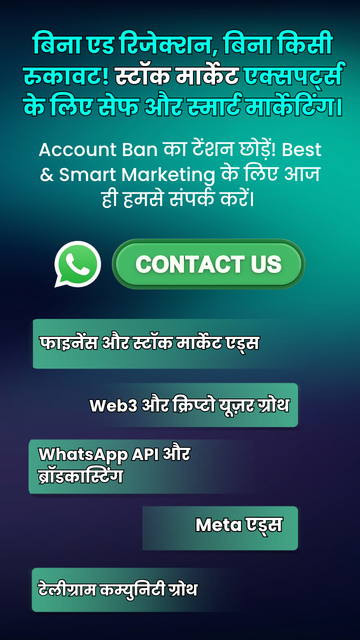
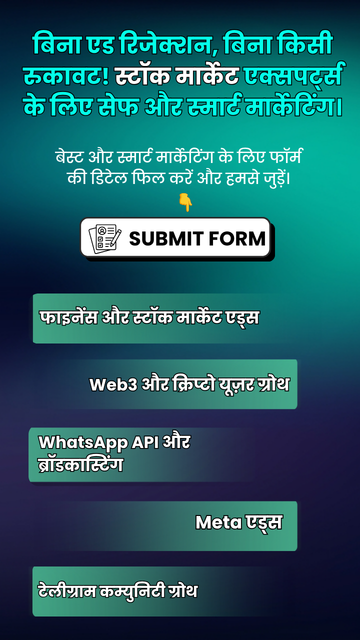
size change

Changed region(s): [[0.0611, 0.2188, 0.8861, 0.9688]]

diff --git a/src/Pages/Landing.tsx b/src/Pages/Landing.tsx
@@ -168,13 +168,13 @@ function Landing() {
               src={desktopImg}
               fetchPriority="high"
             />
-            {/* ✅ Updated Link */}
+            {/* ✅ Updated Link (Added active:bg-white/20 for explicit click feedback) */}
             <a
               href="/form"
               onClick={handleWhatsAppClick}
-              className="absolute hidden md:block cursor-pointer z-30 bg-transparent hover:bg-white/10 transition-colors rounded-2xl"
-              style={{ top: "80%", left: "1.7%", width: "35%", height: "13%" }}
-              aria-label="Go to Form"
+              className="absolute hidden md:block cursor-pointer z-30 bg-transparent hover:bg-white/10 active:bg-white/20 transition-colors duration-200 rounded-2xl"
+              style={{ top: "79%", left: "1.7%", width: "31%", height: "11%" }}
+              aria-label="Contact on WhatsApp"
             ></a>
 
             <img
@@ -183,12 +183,12 @@ function Landing() {
               src={mobileImg}
               fetchPriority="high"
             />
-            {/* ✅ Updated Link */}
+            {/* ✅ Updated Link (Added active:bg-white/30 and removed default mobile tap highlight for clear white flash effect) */}
             <a
               href="/form"
               onClick={handleWhatsAppClick}
-              className="absolute block md:hidden cursor-pointer z-30 bg-transparent hover:bg-white/10 transition-colors rounded-2xl"
-              style={{ top: "42%", left: "15%", width: "70%", height: "9%" }}
+              className="absolute block md:hidden cursor-pointer z-30 bg-transparent hover:bg-white/10 active:bg-white/30 transition-colors duration-200 rounded-2xl"
+              style={{ top: "33%", left: "22%", width: "56%", height: "8%" }}
               aria-label="Go to Form"
             ></a>
           </div>
@@ -313,10 +313,12 @@ function Landing() {
                   href="/form"
                   onClick={handleWhatsAppClick}
                   className="relative w-full sm:w-auto cursor-pointer group block"
+                  style={{ WebkitTapHighlightColor: "transparent" }}
                 >
                   <div className="absolute -inset-5 z-0 rounded-[2rem]"></div>
                   <div className="relative z-10 w-full sm:w-auto bg-teal-500 text-white hover:bg-teal-400 px-6 sm:px-10 py-4 sm:py-5 rounded-full flex items-center justify-center gap-3 transition-all transform group-hover:scale-[1.03] active:scale-95 overflow-hidden pointer-events-none">
-                    <div className="absolute inset-0 w-full h-full bg-gradient-to-r from-transparent via-white/40 to-transparent -translate-x-full group-hover:translate-x-full transition-transform duration-1000 ease-in-out z-0"></div>
+                    {/* ✅ Added `group-active` so the shine triggers on mobile tap too */}
+                    <div className="absolute inset-0 w-full h-full bg-gradient-to-r from-transparent via-white/40 to-transparent -translate-x-full group-hover:translate-x-full group-active:translate-x-full transition-transform duration-1000 ease-in-out z-0"></div>
                     <Fingerprint className="text-2xl md:text-3xl w-6 h-6 sm:w-8 sm:h-8 shrink-0 group-hover:-rotate-12 transition-transform relative z-10" />
                     <span className="text-[14px] sm:text-[16px] md:text-lg font-bold uppercase tracking-wider whitespace-nowrap relative z-10 leading-tight">
                       Whatsapp Channel